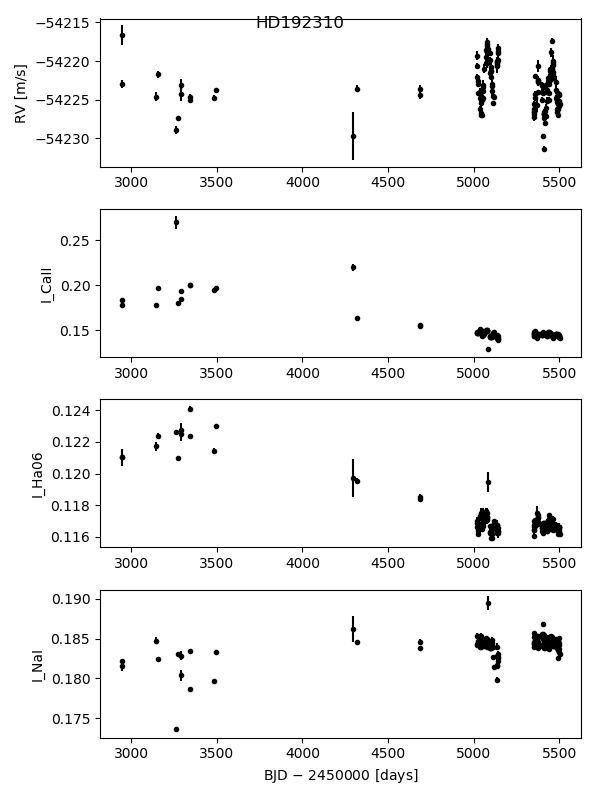
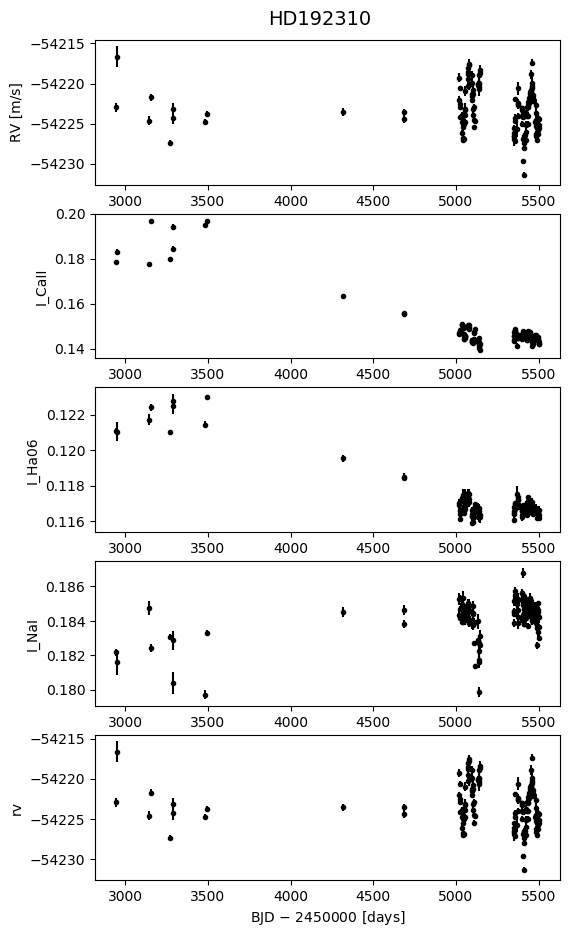
All combinations of calibrations tested

diff --git a/pepe2011.py b/pepe2011.py
@@ -1,32 +1,44 @@
 from actin2.actin2 import ACTIN
 import glob, os, numpy as np, matplotlib.pylab as plt, astropy, pandas as pd
-from astropy.io import fits
-from astropy.stats import sigma_clip
-from util_funcs import _get_simbad_data, plot_RV_indices, stats_indice
+from pyrhk.pyrhk import calc_smw, get_bv, calc_rhk
+from util_funcs import _get_simbad_data, plot_RV_indices, stats_indice, sigma_clip
 '''
 Data from https://archive.eso.org/eso/eso_archive_main.html (see print)
 - This script runs ACTIN2 on the fits files of three stars from the paper Pepe et al 2011, to compare the log R_hk values from the paper and ACTIN2.
 - It gets the SIMBAD data, plots RV and activity indices Calcium II, Halpha 0.6 Angstrom and Na I vs BJD, and then converts the I_CaII to log R_hk
 - Finally it plots the two obtained log R_hk
+
 The data was obtained manually from ESO archive, and then another script (average_spec_night.py) was made because in the paper they averaged the observations
-by night. Unfortunately, for some reason the number of data points is not quite the same.
-The results show good agreement for HD85512 and HD192310 but for HD20794 there's a displacement of around 0.02 log R_hk.
+by night. Unfortunately, for some reason the number of data points is not quite the same, maybe because of outlier cleaning.
+
+The agreement between the two values varies with the calibrations used: CaII -> smw (HARPS_L11 or HARPS_GDS21) and bolometric correction (middelkoop or rutten).
+The one that shows overall best agreement is HARPS_L11 and middelkoop.
+
+The values of B-V used in both this script and the paper are the same (from SIMBAD).
 '''
 actin = ACTIN()
 
 stars_list = ["HD20794","HD85512","HD192310"] #pepe et al 2011 stars
 
-fig, axs = plt.subplots(1, len(stars_list), figsize=(5.5 * len(stars_list), 3.8))
+#plot every combination
+combinations = [["HARPS_L11", "middelkoop"], ["HARPS_L11", "rutten"], ["HARPS_GDS21", "middelkoop"], ["HARPS_GDS21", "rutten"]]
+row_titles = [comb[0] + " and " + comb[1] for comb in combinations]
+fig, axs = plt.subplots(4, len(stars_list), figsize=(16, 14), gridspec_kw={'height_ratios': [0.95, 0.95, 0.95, 0.95], 'hspace': 0.65})
+fig.suptitle(r"$\log R'_{HK}$ for three stars from Pepe et al. 2011 with different calibrations", y=0.95, fontsize=15)
+
+#plot only the best combination
+fig1, axs1 = plt.subplots(1, len(stars_list), figsize=(5.5 * len(stars_list), 4))
+fig1.suptitle(r"$\log R'_{HK}$ for three stars from Pepe et al. 2011 with HARPS_L11 + middelkoop calibrations", fontsize=12)
+
+for k, row_title in enumerate(row_titles):
+    fig.text(0.5, 0.905 - k * 0.207, row_title, va='center', ha='center', rotation='horizontal', fontsize=13)
 
 for i, star in enumerate(stars_list):
+    root_directory = f"/home/telmo/PEEC/ACTIN2/pepe_2011/{star}/avg_spec/"
 
-    root_directory = "/home/telmo/PEEC/ACTIN2/pepe_2011/{}/avg_spec/".format(star)
-    #files_reduced = find_s1d_A(root_directory)
-    #files1 = glob.glob(os.path.join("pepe_2011/{}/".format(star), "*s1d_A.fits")) #spectra used are all from HARPS
-    #files = files_reduced + files1
-    files = glob.glob(os.path.join("pepe_2011/{}/avg_spec/".format(star), "*s1d_A.fits"))
+    files = glob.glob(os.path.join(f"pepe_2011/{star}/avg_spec/", "*s1d_A.fits"))
     if star == "HD192310":
-        files.remove("pepe_2011/HD192310/avg_spec/average_2004-12-02_s1d_A.fits")
+        files.remove("pepe_2011/HD192310/avg_spec/average_2004-12-02_s1d_A.fits") #error in this spectra, don't know why
 
     #Information from SIMBAD
     result = _get_simbad_data(star=star, alerts=True)
@@ -35,43 +47,53 @@ for i, star in enumerate(stars_list):
     #run ACTIN2
     indices = ['I_CaII', 'I_Ha06', 'I_NaI']
     df = actin.run(files, indices)
-    #crude sigma clipping, couldnt apply directly
-    for n,x in enumerate(df.rv):
-        mean = np.mean(df.rv)
-        std = np.std(df.rv)
-        if x < mean - (10 * std) or x > mean + (10 * std):
-            df.drop(n,axis=0,inplace=True)
+
+    #crude sigma clipping, couldnt apply directly with astropy
+    cols = indices
+    cols.append("rv")
+    df = sigma_clip(df, cols, sigma=4)
 
     #visualize RV and three different indices
-    plot_RV_indices(star, df, indices)
+    plot_RV_indices(star, df, indices, save=True)
 
     #get important stats for all indices
     stats_df = stats_indice(star,indices,df)
     print(stats_df)
-    stats_df.drop(["star"], axis=1)
     stats_df.to_csv(f"stats_{star}.csv")
 
-    #convert I_CaII to S_MW, get B-V from SIMBAD and convert to log R_hk
-    from pyrhk.pyrhk import calc_smw, get_bv, calc_rhk
-    smw, smw_err = calc_smw(caii=df["I_CaII"].values, caii_err=df["I_CaII_err"].values, instr='HARPS_GDS21')
-    bv, bv_err, bv_ref = get_bv(star, alerts=True)
-    log_rhk, log_rhk_err, rhk, rhk_err = calc_rhk(smw, smw_err, bv, method='middelkoop', evstage='MS')
-    bjd = np.array(df.bjd)
+    for k,comb in enumerate(combinations):
+        #convert I_CaII to S_MW, get B-V from SIMBAD and convert to log R_hk
+        smw, smw_err = calc_smw(caii=df["I_CaII"].values, caii_err=df["I_CaII_err"].values, instr=comb[0])
+        bv, bv_err, bv_ref = get_bv(star, alerts=True)
+        log_rhk, log_rhk_err, rhk, rhk_err = calc_rhk(smw, smw_err, bv, method=comb[1], evstage='MS')
+        bjd = np.array(df.bjd)
 
-    #get log R_hk of article Pepe et al 2011
-    fits_table_pepe2011= astropy.io.fits.open('pepe_2011/{}/pepe2011_{}.fit'.format(star,star))
-    data = fits_table_pepe2011[1].data
-    log_rhk_pepe2011 = np.array([data[x][-2] for x in range(len(data))]) #extract column in numpy format
-    log_rhk_err_pepe2011 = np.array([data[x][-1] for x in range(len(data))])
-    BJD_pepe2011 = np.array([data[x][0] for x in range(len(data))])
+        #get log R_hk of article Pepe et al 2011
+        fits_table_pepe2011= astropy.io.fits.open(f'pepe_2011/{star}/pepe2011_{star}.fit')
+        data = fits_table_pepe2011[1].data
+        log_rhk_pepe2011 = np.array([data[x][-2] for x in range(len(data))]) #extract column in numpy format
+        log_rhk_err_pepe2011 = np.array([data[x][-1] for x in range(len(data))])
+        BJD_pepe2011 = np.array([data[x][0] for x in range(len(data))])
 
-    #visualize log R_hk from Pepe et al 2011 with obtained from ACTIN2
-    axs[i].errorbar(bjd - 2450000, log_rhk, log_rhk_err, fmt='k.', label="ACTIN2, N = {}".format(len(log_rhk)))
-    axs[i].errorbar(BJD_pepe2011 - 2450000, log_rhk_pepe2011, log_rhk_err_pepe2011, fmt='r.', label="Pepe at al, 2011, N = {}".format(len(log_rhk_pepe2011)))
-    axs[i].set_ylabel("log R_hk")
-    axs[i].set_xlabel("BJD $-$ 2450000 [days]")
-    axs[i].set_title(star)
-    axs[i].legend(loc="best")
+        #visualize log R_hk from Pepe et al 2011 with obtained from ACTIN2
+        axs[k, i].errorbar(bjd - 2450000, log_rhk, log_rhk_err, fmt='k.',
+                               label=f"ACTIN2, N = {len(log_rhk)}")
+        axs[k, i].errorbar(BJD_pepe2011 - 2450000, log_rhk_pepe2011, log_rhk_err_pepe2011, fmt='r.',
+                               label=f"Pepe at al, 2011, N = {len(log_rhk_pepe2011)}")
+        axs[k, i].set_ylabel("log R_hk")
+        axs[k, i].set_xlabel("BJD $-$ 2450000 [days]")
+        axs[k, i].set_title(star)
+        axs[k, i].legend(loc="best",fontsize=9)
 
+        if k == 0: #for the best combination
+            axs1[i].errorbar(bjd - 2450000, log_rhk, log_rhk_err, fmt='k.', label="ACTIN2, N = {}".format(len(log_rhk)))
+            axs1[i].errorbar(BJD_pepe2011 - 2450000, log_rhk_pepe2011, log_rhk_err_pepe2011, fmt='r.', label="Pepe at al, 2011, N = {}".format(len(log_rhk_pepe2011)))
+            axs1[i].set_ylabel("log R_hk")
+            axs1[i].set_xlabel("BJD $-$ 2450000 [days]")
+            axs1[i].set_title(star)
+            axs1[i].legend(loc="best")
+
+fig.savefig("log_Rhk_ACTIN_pepe2011_all_cal.png", bbox_inches="tight")
+fig1.savefig("log_Rhk_ACTIN_pepe2011_best.png", bbox_inches="tight")
 plt.tight_layout()
 plt.show()

diff --git a/util_funcs.py b/util_funcs.py
@@ -1,0 +1,192 @@
+from astroquery.simbad import Simbad
+import numpy as np, pandas as pd, matplotlib.pylab as plt, os
+from astropy.io import fits
+
+def _get_simbad_data(star, alerts=True):
+    """Get selected Simbad data for 'star'.
+    Simbad url: http://simbad.cds.unistra.fr/simbad/
+    """
+    customSimbad = Simbad()
+    #Simbad.list_votable_fields() # Uncomment to check all fields available
+    customSimbad.add_votable_fields('flux(V)')
+    customSimbad.add_votable_fields('flux_error(V)')
+    customSimbad.add_votable_fields('flux(B)')
+    customSimbad.add_votable_fields('plx')
+    customSimbad.add_votable_fields('plx_error')
+    customSimbad.add_votable_fields('sptype')
+    customSimbad.add_votable_fields('otype')
+    customSimbad.add_votable_fields('rv_value')
+    customSimbad.add_votable_fields('otypes')
+    customSimbad.add_votable_fields('pmdec')
+    customSimbad.add_votable_fields('pmra')
+    customSimbad.get_votable_fields()
+    err_msg = None
+    try:
+        query = customSimbad.query_object(star)
+    except:
+        err_msg = f"*** ERROR: Could not identify {star}."
+        if alerts:
+            print(err_msg)
+        return None, err_msg
+
+    #print(list(query));sys.exit() # Uncomment to check all query options
+    keys = [
+        'FLUX_V',
+        'FLUX_ERROR_V',
+        'B-V',
+        'PLX_VALUE', # mas
+        'PLX_ERROR',
+        'SP_TYPE',
+        'OTYPE',
+        'RV_VALUE', # km/s
+        'OTYPES',
+        'PMDEC', # mas/yr
+        'PMRA' # mas/yr
+            ]
+
+    results = {}
+    const = np.ma.core.MaskedConstant
+
+    def no_value_found(key, star):
+        err_msg = f"*** ERROR: {star}: No values of {key} in Simbad."
+        if alerts:
+            print(err_msg)
+        return err_msg
+
+    for key in keys:
+        if key == 'B-V':
+            if not isinstance(query['FLUX_V'][0], const) or not isinstance(query['FLUX_V'][0], const):
+                results[key] = query['FLUX_B'][0]-query['FLUX_V'][0]
+
+            else:
+                err_msg = no_value_found(key, star)
+                results[key] = float('nan')
+
+        elif not query[key][0]:
+            err_msg = no_value_found(key, star)
+            results[key] = float('nan')
+
+        elif isinstance(query[key][0], const):
+            err_msg = no_value_found(key, star)
+            results[key] = float('nan')
+
+        elif isinstance(query[key][0], bytes):
+            results[key] = query[key][0].decode('UTF-8')
+
+        else:
+            results[key] = query[key][0]
+
+    return results
+
+##########################
+
+def plot_RV_indices(star,df,indices,save):
+    """
+    Plot RV and indices given as a function of time
+    """
+    plt.figure(figsize=(6, (len(indices)+1)*2))
+    plt.suptitle(star, fontsize=14)
+    plt.subplot(len(indices)+1, 1, 1)
+    plt.errorbar(df.bjd - 2450000, df.rv, df.rv_err, fmt='k.')
+    plt.ylabel("RV [m/s]")
+    for i, index in enumerate(indices):
+        plt.subplot(len(indices)+1, 1, i+2)
+        plt.ylabel(index)
+        plt.errorbar(df.bjd - 2450000, df[index], df[index + "_err"], fmt='k.')
+    plt.xlabel("BJD $-$ 2450000 [days]")
+    plt.subplots_adjust(top=0.95)
+    if save == True:
+        plt.savefig(f"{star}.png", bbox_inches="tight")
+
+#########################
+    
+def stats_indice(star,indices,df):
+    """
+    Return pandas data frame with statistical data on the indice(s) given: max, min, mean, median, std and N (number of spectra)
+    """
+    df_stats = pd.DataFrame(columns=["star","indice","max","min","mean","median","std","N_spectra"])
+
+    if len(indices) == 1:
+        row = {"star":star,"indice":indices,
+            "max":max(df[indices]),"min":min(df[indices]),
+            "mean":np.mean(df[indices]),"median":np.median(df[indices]),
+            "std":np.std(df[indices]),"N_spectra":len(df[indices])}
+        df_stats.loc[len(df_stats)] = row
+    elif len(indices) > 1:
+        for i in indices:
+            row = {"star":star,"indice":i,
+            "max":max(df[i]),"min":min(df[i]),
+            "mean":np.mean(df[i]),"median":np.median(df[i]),
+            "std":np.std(df[i]),"N_spectra":len(df[i])}
+            df_stats.loc[len(df_stats)] = row
+    else:
+        print("ERROR: No indices given")
+        df_stats = None
+    
+    return df_stats
+
+#########################
+
+def find_s1d_A(directory):
+    """
+    Find files inside folders that match the requirement (s1d_A)
+    """
+    file_paths = []
+    for root, dirs, files in os.walk(directory):
+        for file in files:
+            if file.endswith("s1d_A.fits"):
+                file_path = os.path.join(root, file)
+                file_paths.append(file_path)
+    return file_paths
+
+########################
+
+def create_average_spectrum(folder_path, extension, files):
+    '''
+    This function creates an average spectrum per day. It has two kind of paths because it is used two times, with a difference:
+        - fits files are stored in the main folder of the star (before data/reduced)
+        - fits files are stored in the data/reduced folder
+    I don't know why it happens but it seems that the data/reduced files are the most recent ones, 2010-
+    '''
+    if files == None:
+        files = [f for f in os.listdir(folder_path) if f.endswith("{}.fits".format(extension))]
+
+    if not files:
+        print(f"No {extension} fits files found in {folder_path}")
+        return 0,0
+
+    #header of first observation. using the first obs as the final header just because it is easier
+    with fits.open(os.path.join(folder_path, files[0])) as hdul: hdr = hdul[0].header
+
+    #load each data and pad or truncate to a common length
+    data_list = [fits.getdata(os.path.join(folder_path, file), ext=0) for file in files]
+    #make sure all arrays have same shape
+    min_shape = min(data.shape for data in data_list)
+    
+    if files == None:
+        #check if the arrays are 1D or 2D
+        if len(min_shape) == 1: 
+            data_padded = np.array([data[:min_shape[0]] for data in data_list])
+        elif len(min_shape) == 2:
+            data_padded = np.array([data[:min_shape[0], :min_shape[1]] for data in data_list])
+        else:
+            print("Unexpected dimensionality in the data.")
+    else:
+        data_padded = np.array([data[:min_shape[0]] for data in data_list])
+
+    #compute average data
+    avg_data = np.mean(data_padded, axis=0)
+
+    return avg_data, hdr
+
+########################
+
+def sigma_clip(df, cols, sigma):
+    '''
+    Rough sigma clipping of a data frame.
+    '''
+    for col in cols:
+        mean= df[col].mean()
+        std = df[col].std()
+        df = df[(df[col] >= mean - sigma * std) & (df[col] <= mean + sigma * std)]
+    return df
